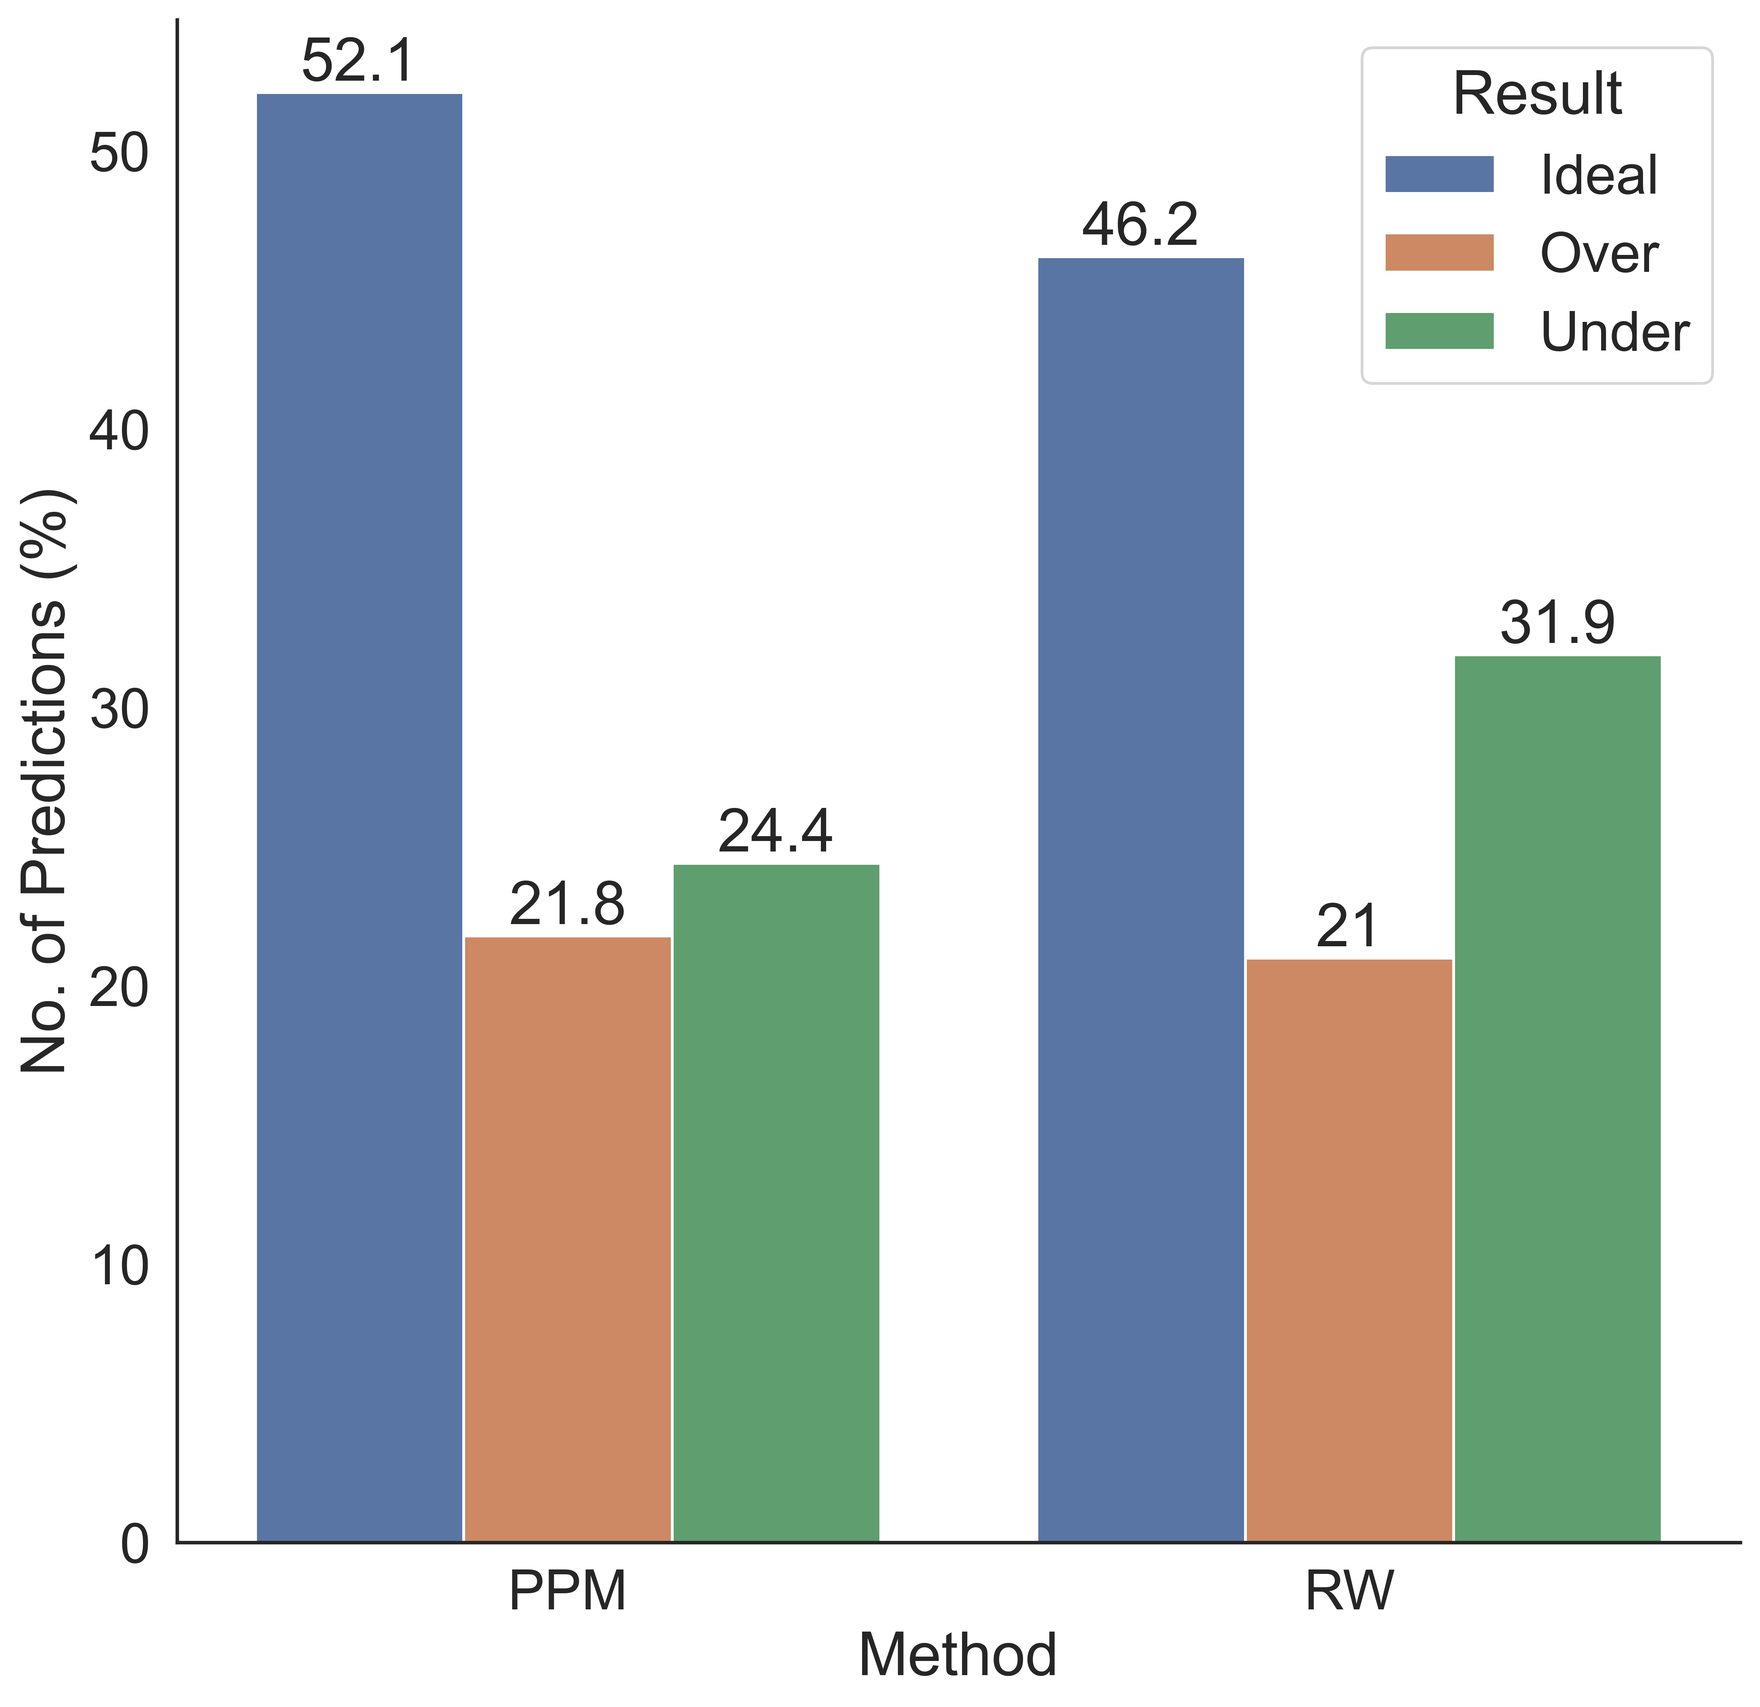
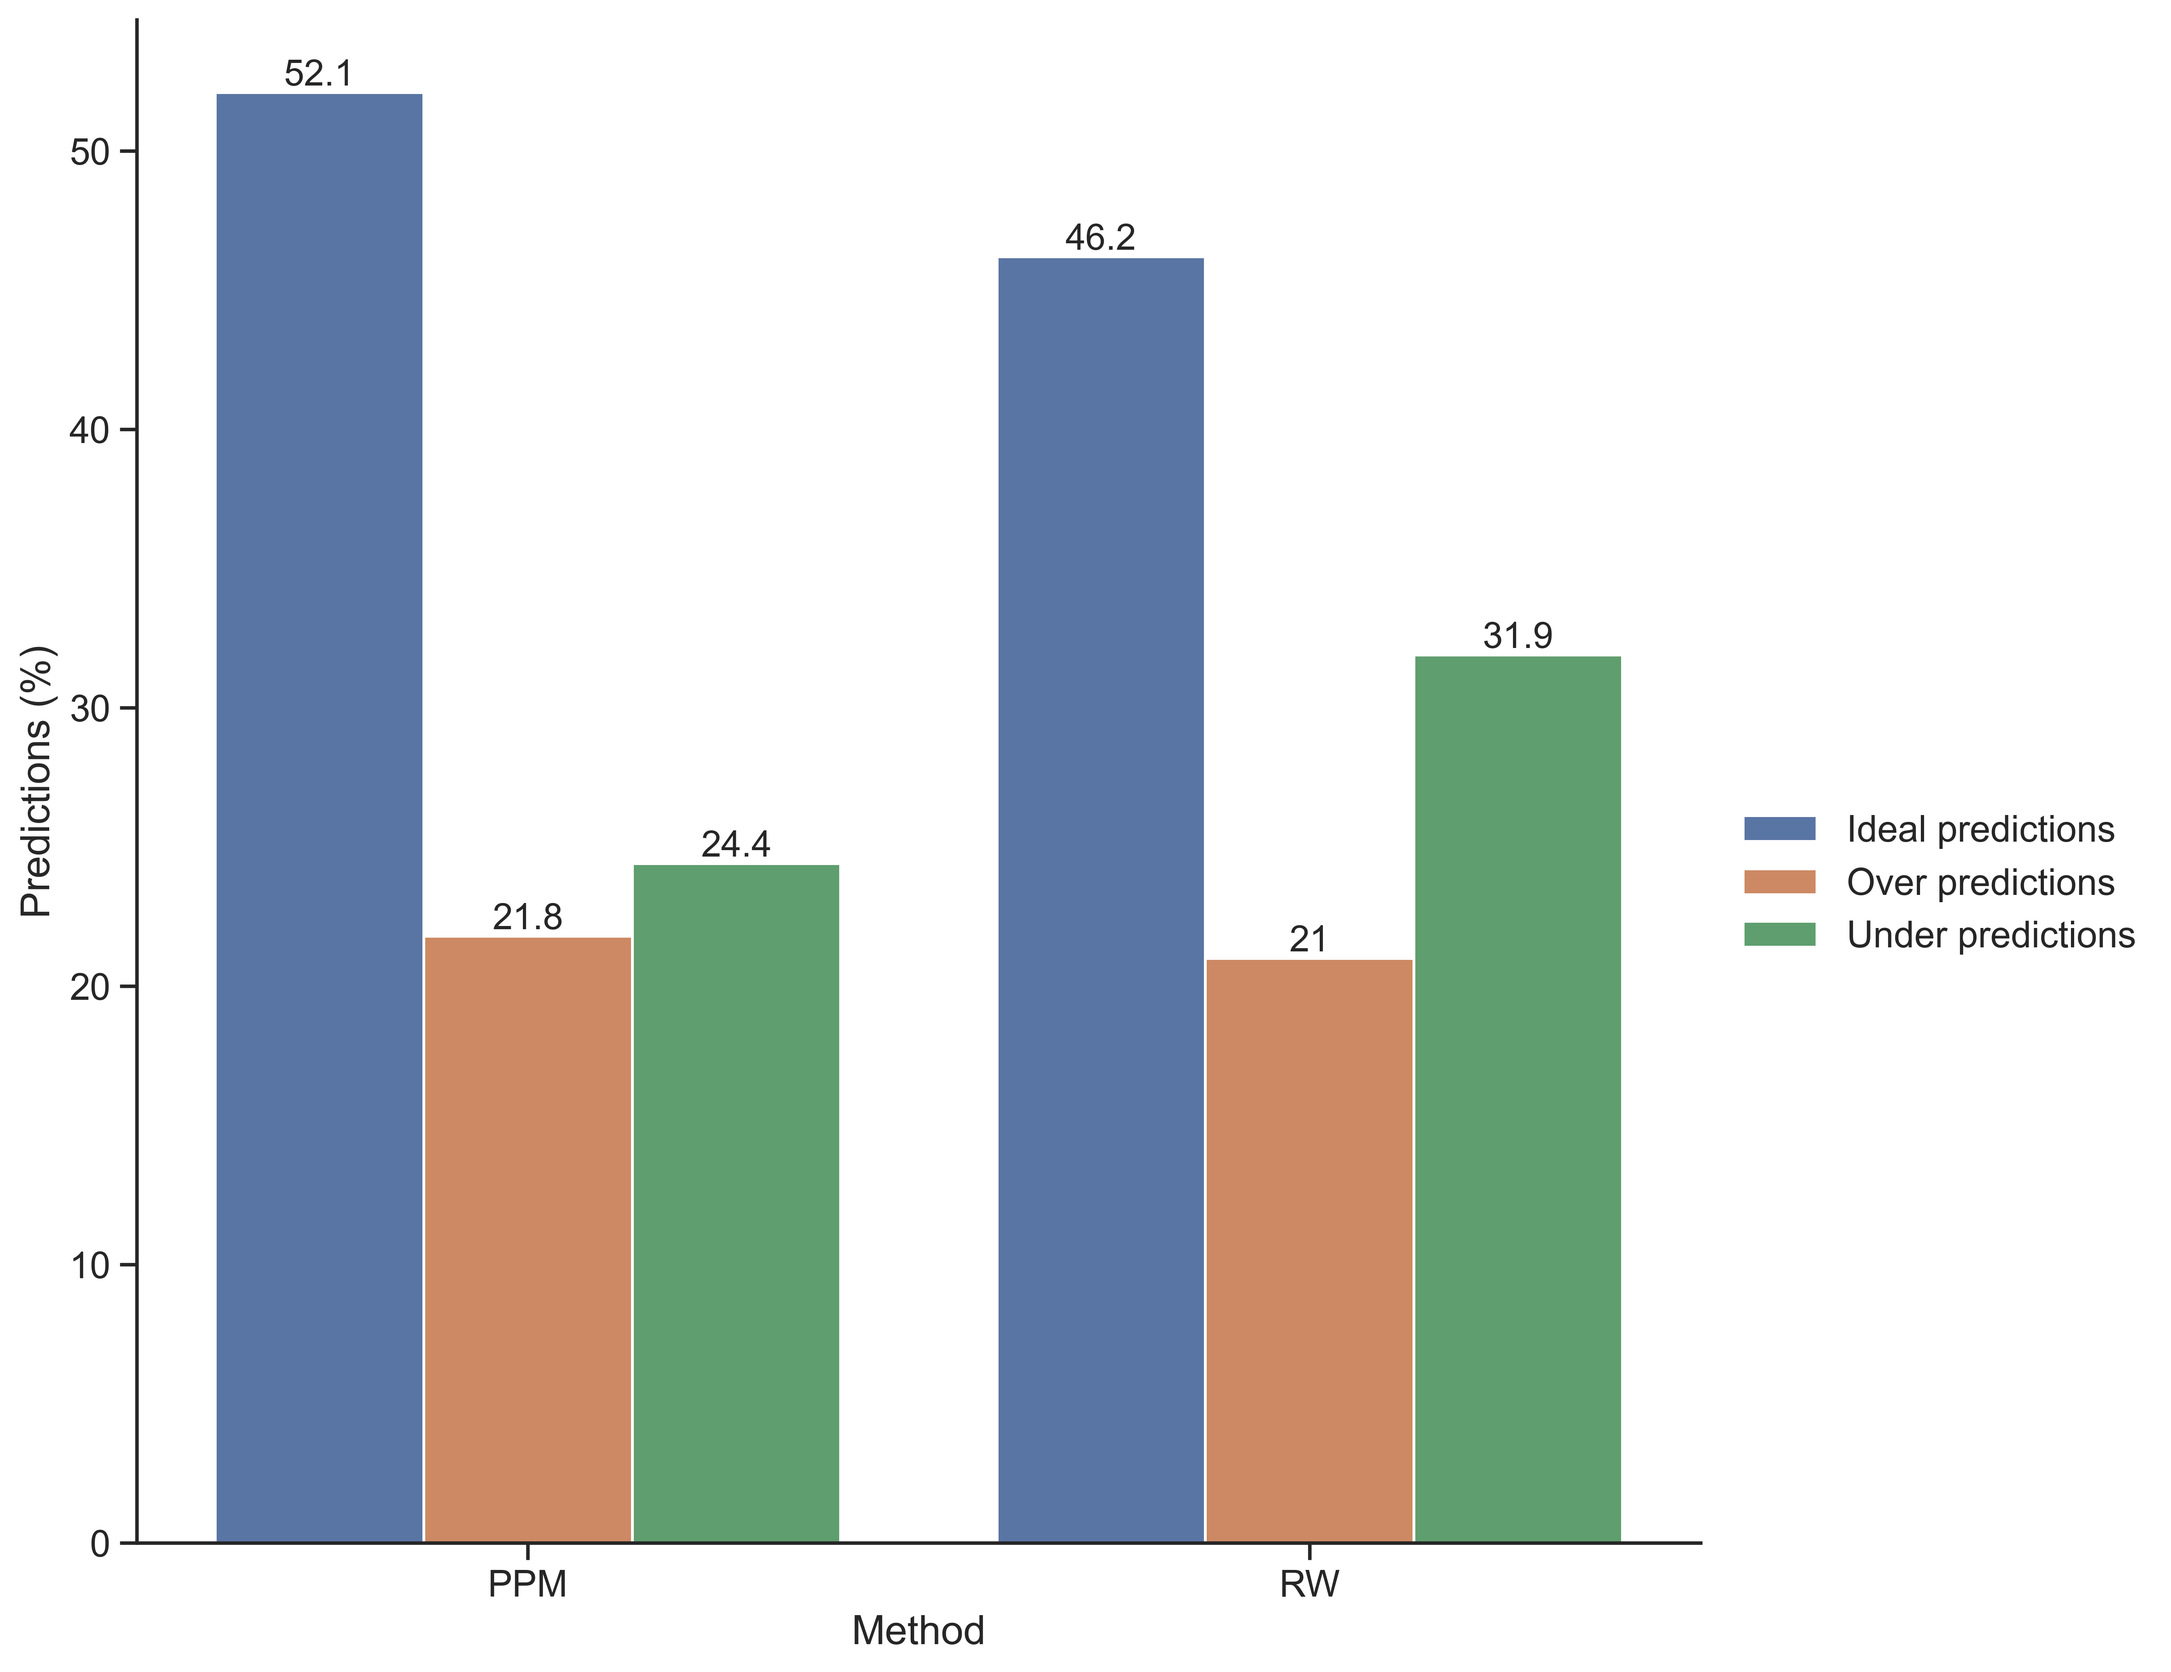
Edit aesthetics of ideal_over_under_pred_PPM_RW

diff --git a/plotting.py b/plotting.py
@@ -6,6 +6,7 @@ import numpy as np
 from analysis import *
 from scipy.stats import mannwhitneyu
 from sklearn.metrics import mean_squared_error
+import math
 
 ##### New graphs after meeting with NUH ######
 
@@ -220,7 +221,7 @@ def RMSE_plot_PPM_RW():
     
     return dat
 
-def ideal_over_under_pred(file_string='output (with pop tau by LOOCV).xlsx'):
+def ideal_over_under_pred(file_string='output (with pop tau by LOOCV).xlsx', plot=False):
     """Bar plot of percentage of ideal/over/under predictions, by method and pop tau"""
     dat = read_file_and_remove_unprocessed_pop_tau(file_string)
 
@@ -251,29 +252,30 @@ def ideal_over_under_pred(file_string='output (with pop tau by LOOCV).xlsx'):
     # pd.set_option('display.float_format', lambda x: '%.2f' % x)
     # metric_df.groupby(['pop_tau', 'result'])['deviation'].describe()
 
-    # Plot
-    sns.set(font_scale=1.8, rc={'figure.figsize':(10,20)})
-    sns.set_style("white")
-    ax = sns.catplot(data=metric_df[metric_df.pop_tau == 'pop tau'], x='method', 
-                     y='deviation', hue='result', kind='bar', height=5,
-                    aspect=2)
+    if plot == True:
+        # Plot
+        sns.set(font_scale=1.8, rc={'figure.figsize':(10,20)})
+        sns.set_style("white")
+        ax = sns.catplot(data=metric_df[metric_df.pop_tau == 'pop tau'], x='method', 
+                        y='deviation', hue='result', kind='bar', height=5,
+                        aspect=2)
 
-    ax.set(xlabel=None, ylabel='No. of Predictions (%)', 
-           title='No. of Ideal/Over/Under Predictions (%) (Pop Tau Methods)')
-    ax.set_xticklabels(rotation=90)
-    ax._legend.set_title('Prediction')
-    plt.savefig('pop_tau_predictions.png', bbox_inches='tight', dpi=300)
+        ax.set(xlabel=None, ylabel='No. of Predictions (%)', 
+            title='No. of Ideal/Over/Under Predictions (%) (Pop Tau Methods)')
+        ax.set_xticklabels(rotation=90)
+        ax._legend.set_title('Prediction')
+        plt.savefig('pop_tau_predictions.png', bbox_inches='tight', dpi=300)
 
-    sns.set(font_scale=1.8, rc={'figure.figsize':(10,20)})
-    sns.set_style("white")
-    ax = sns.catplot(data=metric_df[metric_df.pop_tau == 'no pop tau'], x='method', 
-                     y='deviation', hue='result', kind='bar', height=5,
-                    aspect=2)
-    ax.set(xlabel=None, ylabel='No. of Predictions (%)', 
-           title='No. of Ideal/Over/Under Predictions (%)')
-    ax.set_xticklabels(rotation=90)
-    ax._legend.set_title('Prediction')
-    plt.savefig('no_pop_tau_predictions.png', bbox_inches='tight', dpi=300)
+        sns.set(font_scale=1.8, rc={'figure.figsize':(10,20)})
+        sns.set_style("white")
+        ax = sns.catplot(data=metric_df[metric_df.pop_tau == 'no pop tau'], x='method', 
+                        y='deviation', hue='result', kind='bar', height=5,
+                        aspect=2)
+        ax.set(xlabel=None, ylabel='No. of Predictions (%)', 
+            title='No. of Ideal/Over/Under Predictions (%)')
+        ax.set_xticklabels(rotation=90)
+        ax._legend.set_title('Prediction')
+        plt.savefig('no_pop_tau_predictions.png', bbox_inches='tight', dpi=300)
 
     # Rename 'deviation' column to 'perc_predictions'
     metric_df.columns = ['method', 'perc_predictions', 'result', 'pop_tau']
@@ -289,20 +291,23 @@ def ideal_over_under_pred_PPM_RW():
     dat = dat[(dat.pop_tau=='no pop tau') & ((dat.method=='L_PPM_wo_origin') | (dat.method=='L_RW_wo_origin'))]
 
     # Rename columns
-    dat = dat.rename(columns={'result':'Result', 'method':'Method', 'perc_predictions':'No. of Predictions (%)'})
+    dat = dat.rename(columns={'result':'Result', 'method':'Method', 'perc_predictions':'Predictions (%)'})
     dat['Method'] = dat['Method'].map({'L_PPM_wo_origin':'PPM', 'L_RW_wo_origin':'RW'})
-    dat['Result'] = dat['Result'].map({'ideal':'Ideal', 'over':'Over', 'under':'Under'})
-    dat['No. of Predictions (%)'] = dat['No. of Predictions (%)'].round(1)
+    dat['Result'] = dat['Result'].map({'ideal':'Ideal predictions', 'over':'Over predictions', 'under':'Under predictions'})
+    dat['Predictions (%)'] = dat['Predictions (%)'].round(1)
 
     # Plot
     fig, ax = plt.subplots(figsize=(10,10))
 
-    ax = sns.barplot(data=dat, x='Method', y='No. of Predictions (%)', hue='Result')
+    sns.set(font_scale=1.2, style='white', rc={"figure.figsize": (16,10), "xtick.bottom" : True, "ytick.left" : True})
+
+    ax = sns.barplot(data=dat, x='Method', y='Predictions (%)', hue='Result')
     sns.despine()
+    plt.legend(frameon=False, bbox_to_anchor=(1.3,0.5), loc='upper right')
 
     # Label bars
     for container in ax.containers:
-        ax.bar_label(container)
+        ax.bar_label(container, fontsize=13)
 
     plt.savefig('ideal_over_under_PPM_RW.png', dpi=500, facecolor='w', bbox_inches='tight')
 

diff --git a/retro_PLT.py b/retro_PLT.py
@@ -56,8 +56,38 @@ execute_CURATE_and_update_pop_tau_results('CV', five_fold_cross_val_results_summ
 # Perform LOOCV
 five_fold_cross_val_results, five_fold_cross_val_results_summary = find_pop_tau_with_LOOCV()
 execute_CURATE_and_update_pop_tau_results('LOOCV', five_fold_cross_val_results_summary, five_fold_cross_val_results)
-# -
+# +
+"""Bar plot of percentage of ideal/over/under predictions, by method"""
 
+df = ideal_over_under_pred()
+
+# +
+dat = df.copy()
+
+# Subset PPM and RW method
+dat = dat[(dat.pop_tau=='no pop tau') & ((dat.method=='L_PPM_wo_origin') | (dat.method=='L_RW_wo_origin'))]
+
+# Rename columns
+dat = dat.rename(columns={'result':'Result', 'method':'Method', 'perc_predictions':'Predictions (%)'})
+dat['Method'] = dat['Method'].map({'L_PPM_wo_origin':'PPM', 'L_RW_wo_origin':'RW'})
+dat['Result'] = dat['Result'].map({'ideal':'Ideal predictions', 'over':'Over predictions', 'under':'Under predictions'})
+dat['Predictions (%)'] = dat['Predictions (%)'].round(1)
+
+# Plot
+fig, ax = plt.subplots(figsize=(10,10))
+
+sns.set(font_scale=1.2, style='white', rc={"figure.figsize": (16,10), "xtick.bottom" : True, "ytick.left" : True})
+
+ax = sns.barplot(data=dat, x='Method', y='Predictions (%)', hue='Result')
+sns.despine()
+plt.legend(frameon=False, bbox_to_anchor=(1.3,0.5), loc='upper right')
+
+# Label bars
+for container in ax.containers:
+    ax.bar_label(container, fontsize=13)
+
+plt.savefig('ideal_over_under_PPM_RW.png', dpi=500, facecolor='w', bbox_inches='tight')
+# -
 
 dat = df.copy()
 dat
